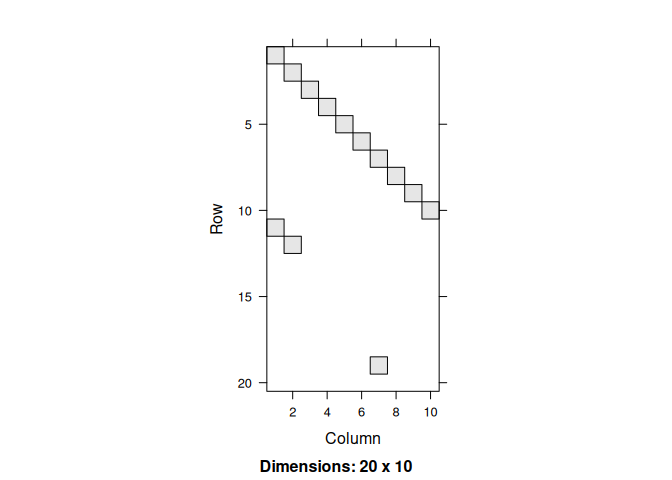
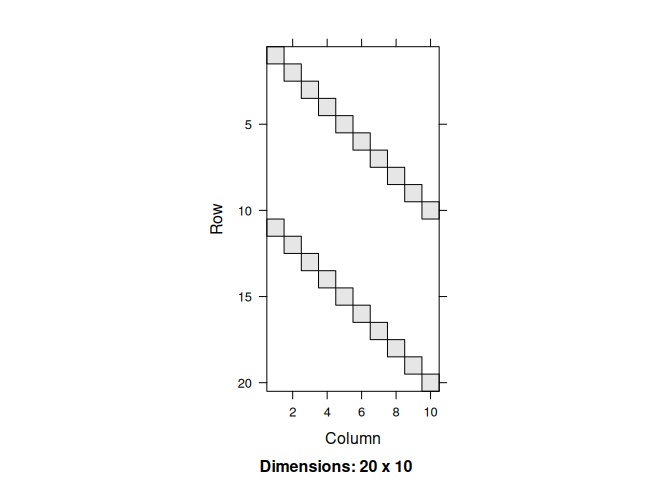
Refreshing the readme

Changed region(s): [[0.4375, 0.5312, 0.6562, 0.8438]]

diff --git a/README.md b/README.md
@@ -438,7 +438,7 @@ td_ones(d_model)
 # Initializing and simulating
 init_defm(d_model)
 set.seed(33)
-(Y_sim <-sim_defm(d_model, par = c(rep(200, n_y), -5)))
+(Y_sim <-sim_defm(d_model, par = c(rep(200, n_y), -10)))
 #>       y0 y1 y2 y3 y4 y5 y6 y7 y8 y9
 #>  [1,]  1  0  0  0  0  0  0  0  0  0
 #>  [2,]  0  1  0  0  0  0  0  0  0  0
@@ -452,14 +452,14 @@ set.seed(33)
 #> [10,]  0  0  0  0  0  0  0  0  0  1
 #> [11,]  1  0  0  0  0  0  0  0  0  0
 #> [12,]  0  1  0  0  0  0  0  0  0  0
-#> [13,]  0  0  0  0  0  0  0  0  0  0
-#> [14,]  0  0  0  0  0  0  0  0  0  0
-#> [15,]  0  0  0  0  0  0  0  0  0  0
-#> [16,]  0  0  0  0  0  0  0  0  0  0
-#> [17,]  0  0  0  0  0  0  0  0  0  0
-#> [18,]  0  0  0  0  0  0  0  0  0  0
-#> [19,]  0  0  0  0  0  0  1  0  0  0
-#> [20,]  0  0  0  0  0  0  0  0  0  0
+#> [13,]  0  0  1  0  0  0  0  0  0  0
+#> [14,]  0  0  0  1  0  0  0  0  0  0
+#> [15,]  0  0  0  0  1  0  0  0  0  0
+#> [16,]  0  0  0  0  0  1  0  0  0  0
+#> [17,]  0  0  0  0  0  0  1  0  0  0
+#> [18,]  0  0  0  0  0  0  0  1  0  0
+#> [19,]  0  0  0  0  0  0  0  0  1  0
+#> [20,]  0  0  0  0  0  0  0  0  0  1
 ```
 
 The simulation should produce a nice-looking figure:
@@ -527,7 +527,7 @@ d_model_formula
 
 # Simulating
 set.seed(33)
-(Y_sim_formula <- sim_defm(d_model_formula, par = c(rep(200, n_y), -5)))
+(Y_sim_formula <- sim_defm(d_model_formula, par = c(rep(200, n_y), -10)))
 #>       y0 y1 y2 y3 y4 y5 y6 y7 y8 y9
 #>  [1,]  1  0  0  0  0  0  0  0  0  0
 #>  [2,]  0  1  0  0  0  0  0  0  0  0
@@ -541,14 +541,14 @@ set.seed(33)
 #> [10,]  0  0  0  0  0  0  0  0  0  1
 #> [11,]  1  0  0  0  0  0  0  0  0  0
 #> [12,]  0  1  0  0  0  0  0  0  0  0
-#> [13,]  0  0  0  0  0  0  0  0  0  0
-#> [14,]  0  0  0  0  0  0  0  0  0  0
-#> [15,]  0  0  0  0  0  0  0  0  0  0
-#> [16,]  0  0  0  0  0  0  0  0  0  0
-#> [17,]  0  0  0  0  0  0  0  0  0  0
-#> [18,]  0  0  0  0  0  0  0  0  0  0
-#> [19,]  0  0  0  0  0  0  1  0  0  0
-#> [20,]  0  0  0  0  0  0  0  0  0  0
+#> [13,]  0  0  1  0  0  0  0  0  0  0
+#> [14,]  0  0  0  1  0  0  0  0  0  0
+#> [15,]  0  0  0  0  1  0  0  0  0  0
+#> [16,]  0  0  0  0  0  1  0  0  0  0
+#> [17,]  0  0  0  0  0  0  1  0  0  0
+#> [18,]  0  0  0  0  0  0  0  1  0  0
+#> [19,]  0  0  0  0  0  0  0  0  1  0
+#> [20,]  0  0  0  0  0  0  0  0  0  1
 ```
 
 The new simulation…